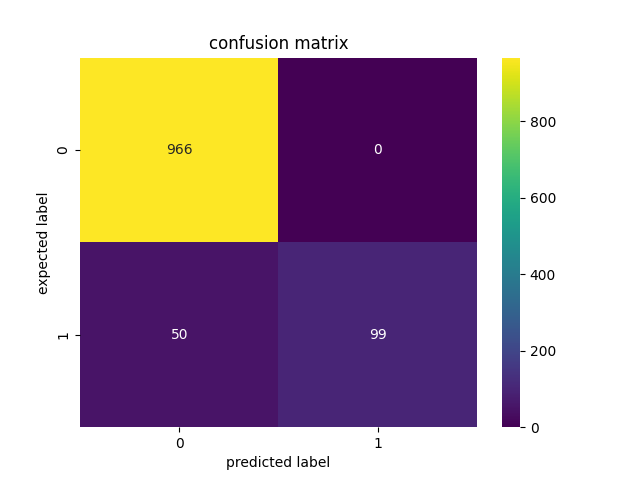
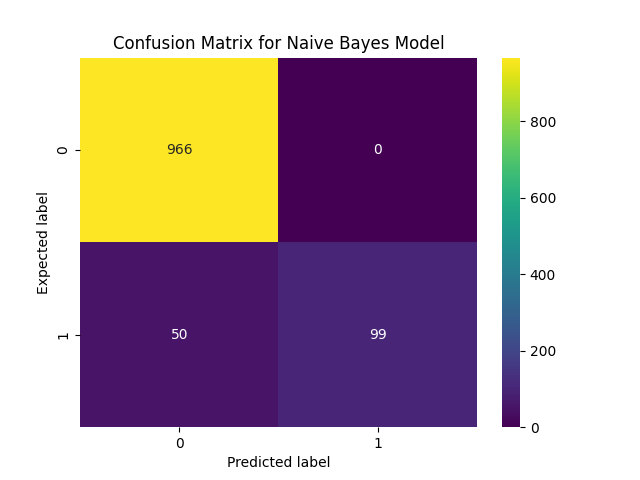
Added Files

Changed region(s): [[0.1875, 0.0625, 0.6875, 0.125], [0.0625, 0.4062, 0.0938, 0.625], [0.3438, 0.9375, 0.5, 0.9688]]

diff --git a/Code.py b/Code.py
@@ -4,6 +4,7 @@ import seaborn as sns
 import matplotlib.pyplot as plt
 import numpy as np
 
+from texttable import Texttable
 from sklearn.model_selection import train_test_split
 from textblob import TextBlob
 from sklearn.feature_extraction.text import CountVectorizer, TfidfTransformer
@@ -90,25 +91,30 @@ test_features = features_transform(X_test)
 
 
 # Function which takes in y test value and y predicted value and prints the associated model performance metrics
-def model_assessment(y_test , predicted_class):
-    print('confusion matrix')
-    print(confusion_matrix(y_test,predicted_class))
-    print('accuracy')
-    print(accuracy_score(y_test,predicted_class))
-    print('precision')
-    print(precision_score(y_test,predicted_class,pos_label='spam'))
-    print('recall')
-    print(recall_score(y_test,predicted_class,pos_label='spam'))
-    print('f-Score')
-    print(f1_score(y_test,predicted_class,pos_label='spam'))
-    print('AUC')
-    print(roc_auc_score(np.where(y_test=='spam',1,0),np.where(predicted_class == 'spam',1,0)))
+def model_assessment(y_test , predicted_class, model,color):
+    print(model.upper())
+
+    table = Texttable()
+    table.add_rows(
+        [
+            ["Confusion Matrix", confusion_matrix(y_test,predicted_class)],
+            ["",""],
+            ["Accuracy", accuracy_score(y_test,predicted_class)],
+            ["Precision", precision_score(y_test,predicted_class,pos_label='spam')],
+            ["Recall", recall_score(y_test,predicted_class,pos_label='spam')],
+            ["F-Score",f1_score(y_test,predicted_class,pos_label='spam')],
+            ["AUC", roc_auc_score(np.where(y_test=='spam',1,0),np.where(predicted_class == 'spam',1,0))]
+        ]
+    )
+    table.set_deco(Texttable.VLINES | Texttable.BORDER)
+    print(table.draw())
     print()
+
     cm = confusion_matrix(y_test, predicted_class)
-    sns.heatmap(cm, fmt='g', annot = True, cmap = "viridis" )
-    plt.title('confusion matrix')
-    plt.ylabel('expected label')
-    plt.xlabel('predicted label')
+    sns.heatmap(cm, fmt='g', annot = True, cmap = color)
+    plt.title('Confusion Matrix for %s' % model)
+    plt.ylabel('Expected label')
+    plt.xlabel('Predicted label')
     plt.show()
 
 # 1.Naive Bayes Model :
@@ -121,7 +127,7 @@ modelNB.fit(train_features, y_train)
 predicted_class_NB = modelNB.predict(test_features)
 
 # Assess NB
-model_assessment(y_test,predicted_class_NB)
+model_assessment(y_test,predicted_class_NB, "Naive Bayes Model","viridis")
 
 
 # 2.Decision Tree Model:
@@ -132,10 +138,10 @@ model_tree.fit(train_features,y_train)
 
 # Run model on test and print metrics
 predicted_class_tree = model_tree.predict(test_features)
-model_assessment(y_test,predicted_class_tree)
+model_assessment(y_test,predicted_class_tree, "Decision Tree Model","Greens_r")
 
 
-# 3.Support Vector Machine:
+# 3.Support Vector Machine (SVM) Model:
 
 # Create and fit SVM model
 model_svm = SVC()
@@ -143,10 +149,10 @@ model_svm.fit(train_features,y_train)
 
 # Run model on test and print metrics
 predicted_class_svm=model_svm.predict(test_features)
-model_assessment(y_test,predicted_class_svm)
+model_assessment(y_test,predicted_class_svm,"SVM Model","Reds_r")
 
 
-# 4. Random Forest
+# 4. Random Forest Model
 
 # Create and fit model
 model_rf = RandomForestClassifier(n_estimators=20, criterion='entropy')
@@ -154,4 +160,4 @@ model_rf.fit(train_features,y_train)
 
 # Run model on test and print metrics
 predicted_class_rf = model_rf.predict(test_features)
-model_assessment(y_test,predicted_class_rf)
+model_assessment(y_test,predicted_class_rf,"Random Forest Model","Blues_r")
